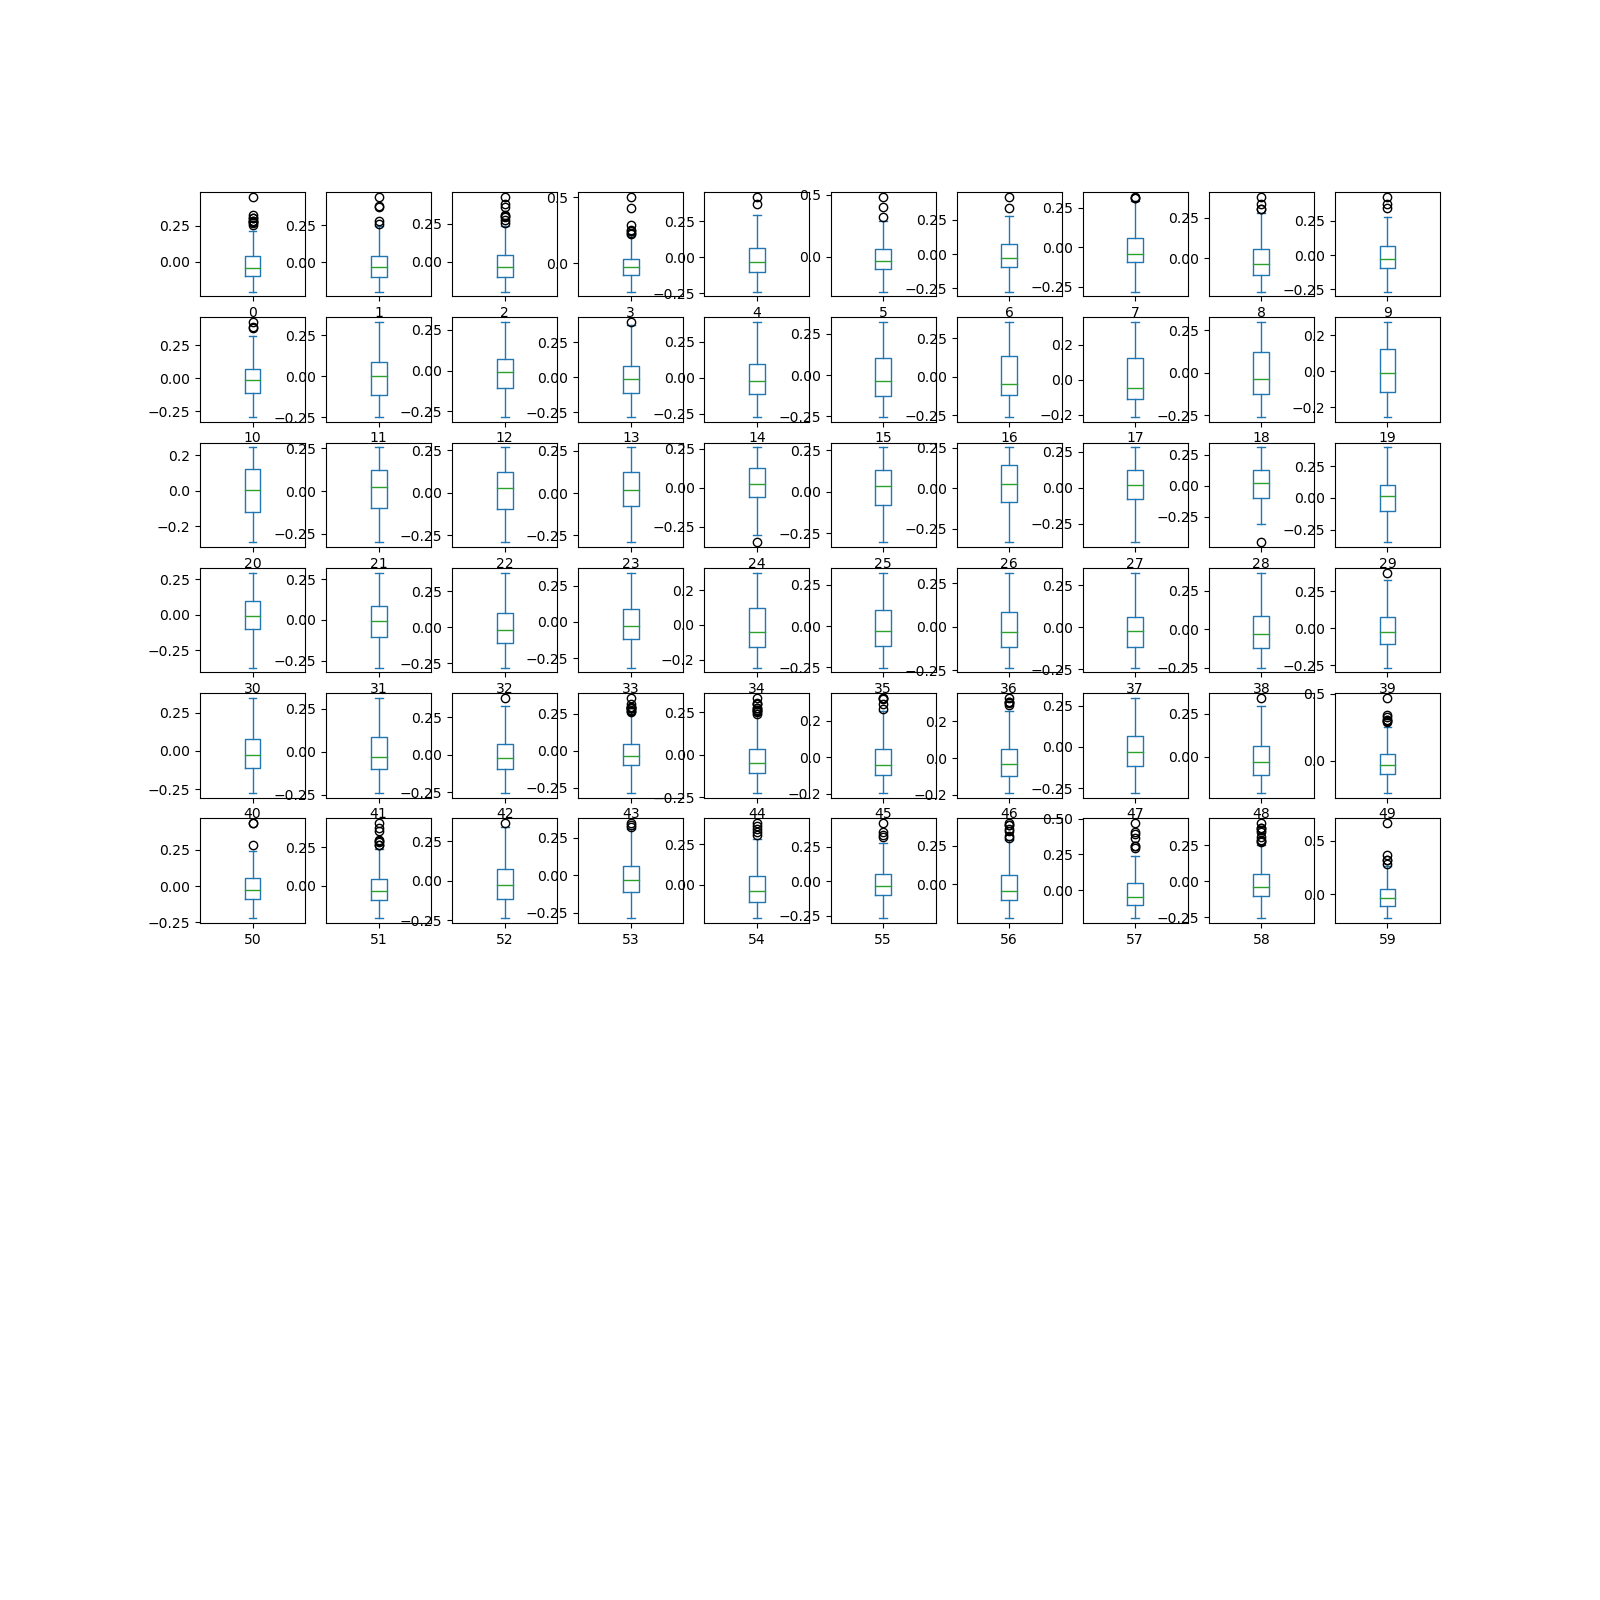
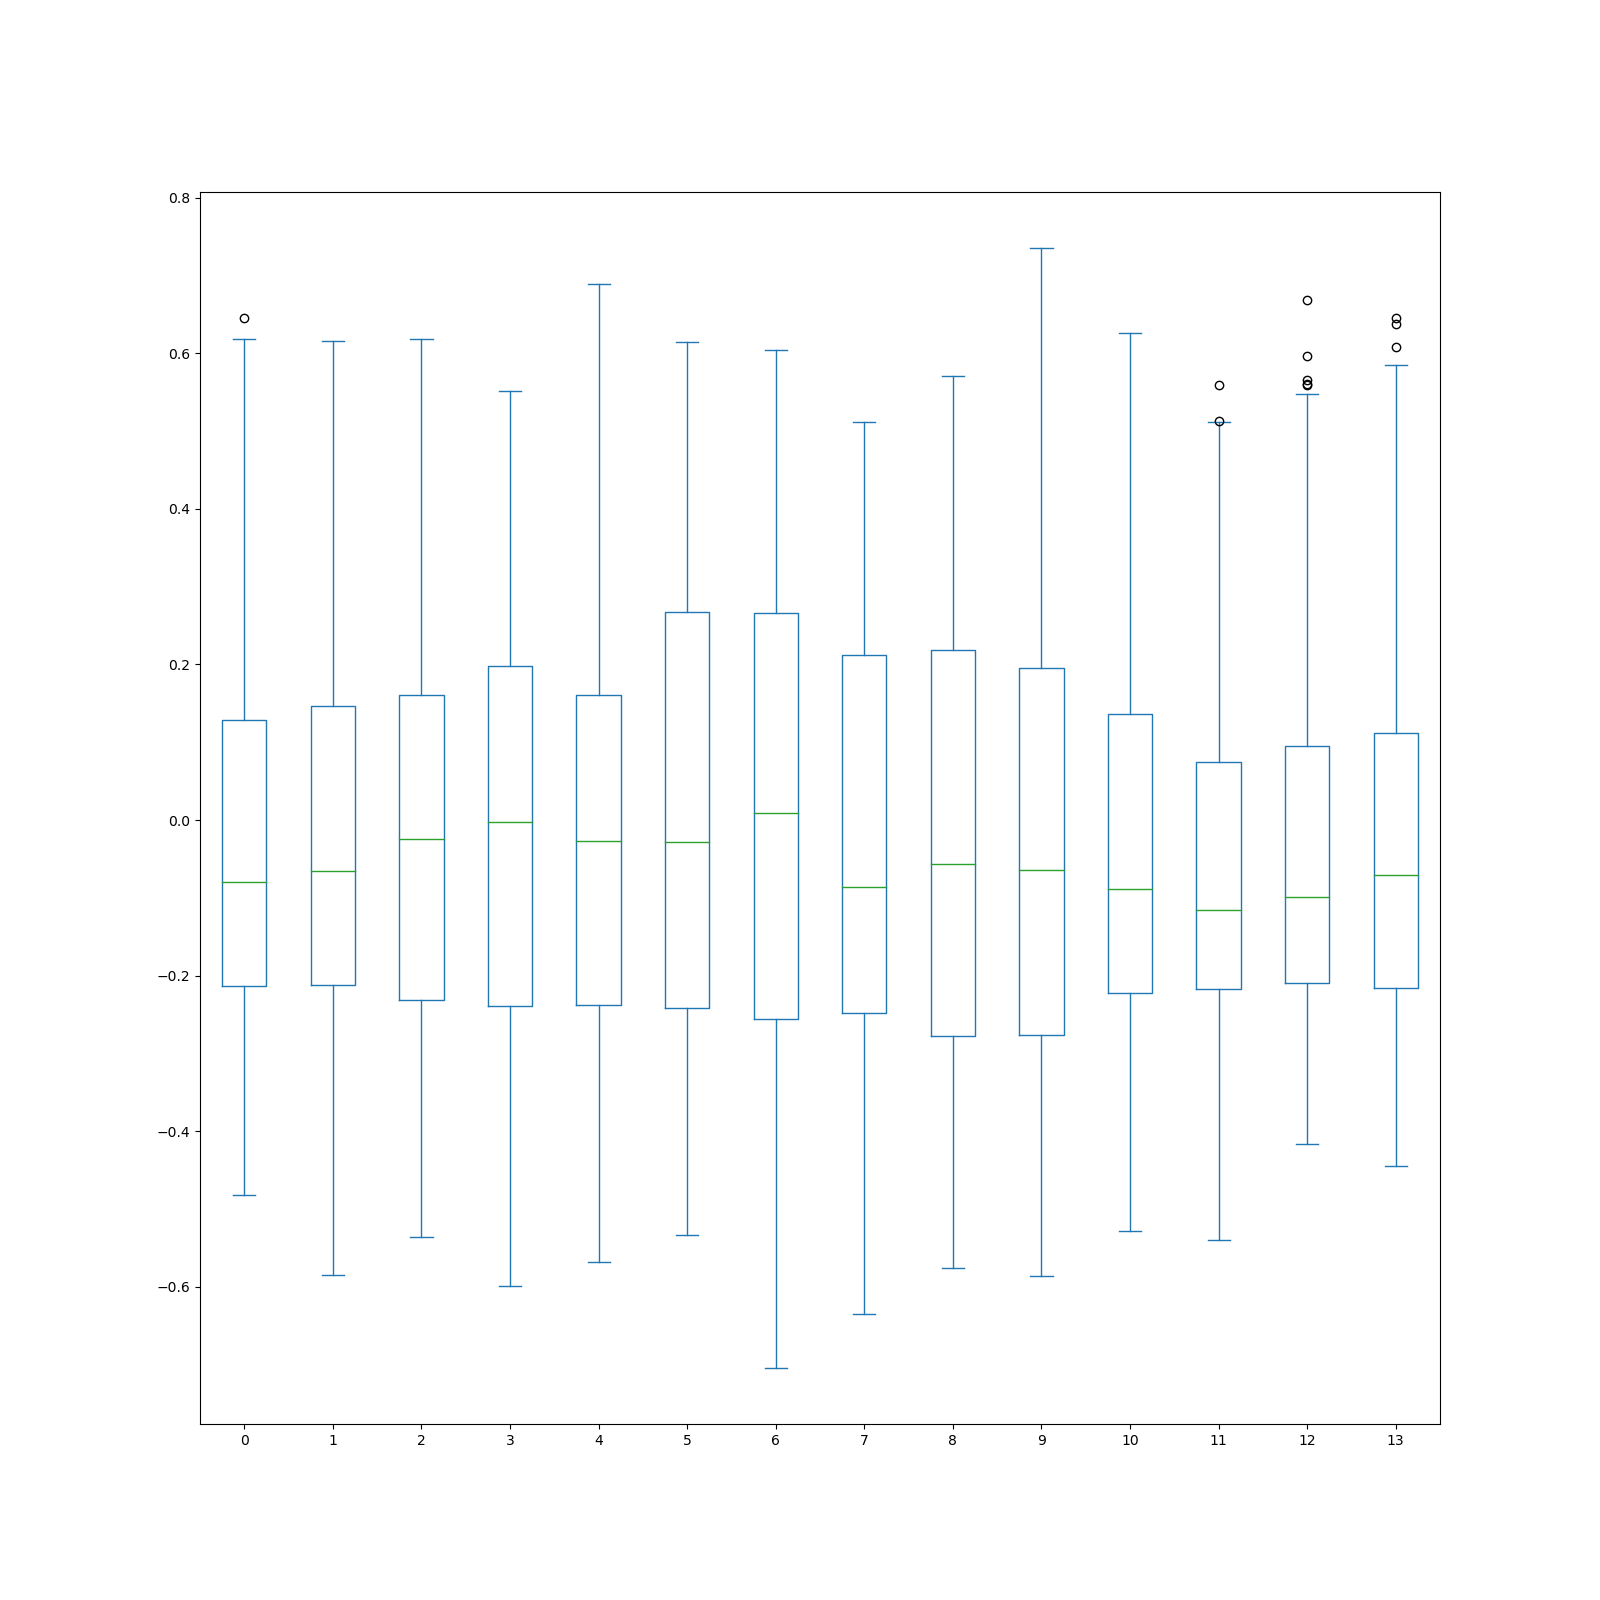
Minimal updates to the data processing procedure.

diff --git a/src/scripts/data_processing.py b/src/scripts/data_processing.py
@@ -14,7 +14,7 @@ import sys
 from emoji import emojize
 from termcolor import colored as cl
 
-# Data analysis
+# Data science
 import pandas as pd
 import matplotlib.pyplot as plt
 import numpy as np
@@ -54,18 +54,17 @@ def apply_operation( operation, data ):
 def feature_selection( data, print_steps = False ):
 
     # Variables
-    label = data[ "60" ]
-    n_of_features = 14 
+    label = data[ "60" ] 
     array = data.values
     X = array[ :, 0:60 ]
     Y = array[ :, 60 ]
 
     # Tests
     if print_steps == True:
-        test = SelectKBest(score_func=chi2, k=3)
-        fit = test.fit(X, Y)
+        test = SelectKBest( score_func = chi2, k = 3 )
+        fit = test.fit( X, Y )
         print( end = "\n\n" )
-        print(fit.scores_)
+        print( fit.scores_ )
     
     # Feature selection
     X_new = SelectKBest( score_func = chi2, k = n_of_features ).fit_transform( X, Y ) # TODO: change k
@@ -114,6 +113,9 @@ def process_dataset( print_steps = False ):
     print( emojize( ":check_mark_button:" ) )
     if print_steps == True:
         print( data )
+        
+    # Renaming the last column
+    data.rename( columns = { "60": "Label" }, inplace = True )
     
     return data
 
@@ -129,7 +131,6 @@ def utility_plots( data ):
     """
 
     # Variables and constants
-    utility_path = "../../img/utility"
     dimension = ( 4, 4 )
     
     # Histograms
@@ -147,7 +148,7 @@ def utility_plots( data ):
     
     # Box plots
     print( "- Printing box plots ", end = "" )
-    data.plot( kind = "box", subplots = True, layout = dimension, sharex = False, sharey = False )
+    data.plot( kind = "box", layout = dimension, sharex = False, sharey = False )
     save_img( "box", utility_path )
     print( emojize( ":check_mark_button:" ) )
     
@@ -178,14 +179,28 @@ def utility_plots( data ):
 #################################################
 def main():
     
+    # Global variables
+    global utility_path, n_of_features
+    utility_path = "../../img/utility"
+    n_of_features = 14
+    
+    # Variables
+    data_path = "../../data"
+    
     # Processing the dataset
     print( cl( "Dataset operations:", "green" ) )
     data = process_dataset( print_steps = False )
+    data.to_csv( "{}/{}".format( data_path, "processed_data.csv" ) )
     print()
     
     # Printing utility plots
     print( cl( "Plotting utils:", "green" ) )
     utility_plots( data )
-
+    print()
+    
+    # Extra information
+    print( "Plots have been saved in:", cl( utility_path, "yellow" ) )
+    print( "Processed data has been saved in:", cl( data_path, "yellow" ) )
+    
 if __name__ == "__main__":
     main()
